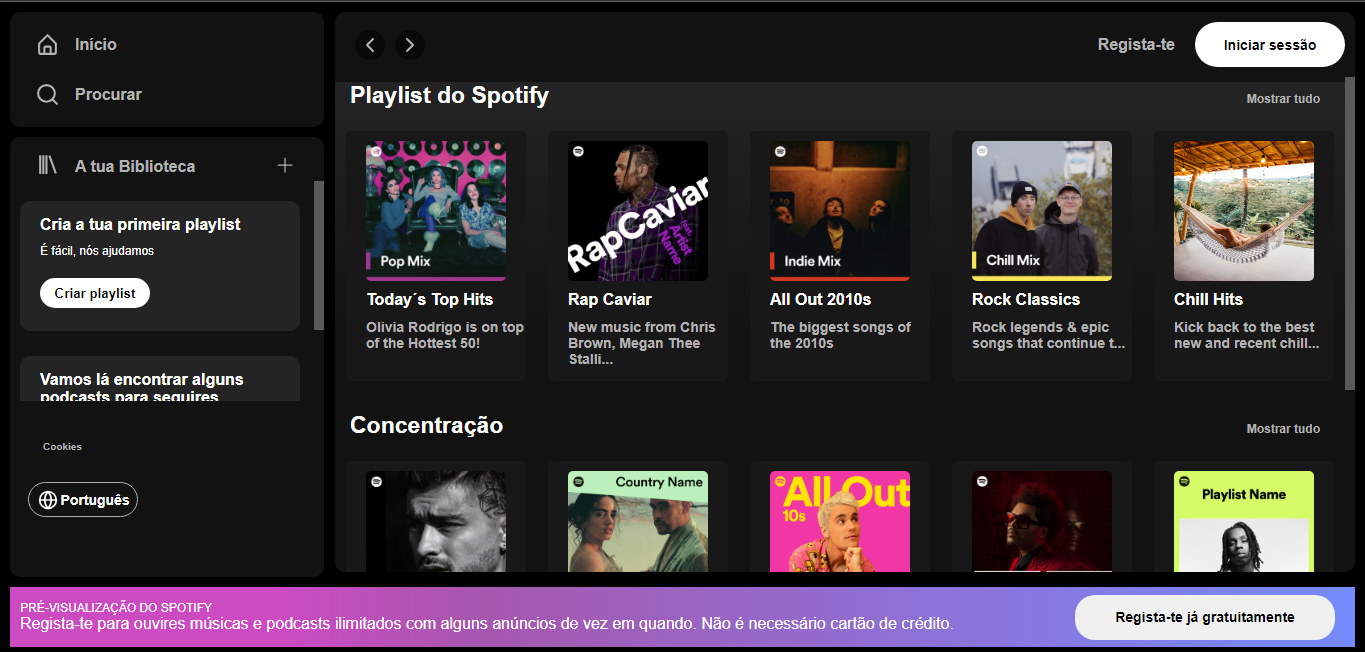
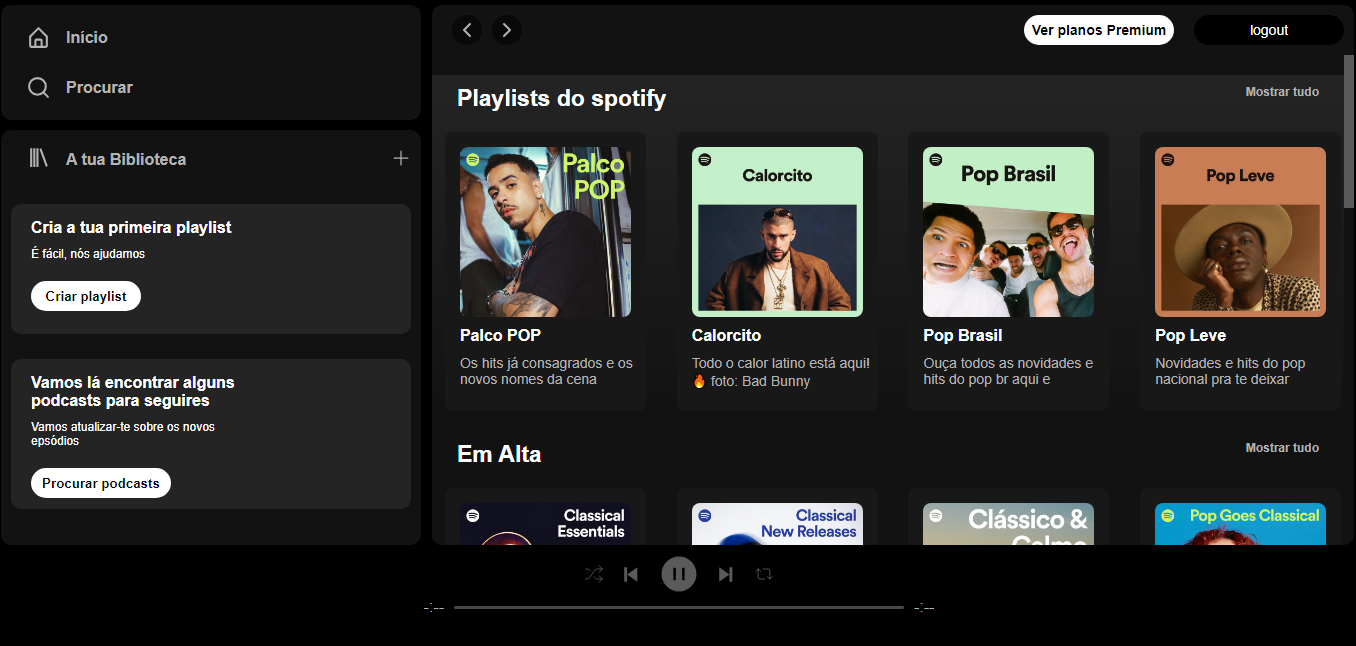
feat: adicionando atualizações e melhorias na organização do projeto

diff --git a/src/views/hello/Hello.jsx b/src/views/hello/Hello.jsx
@@ -2,11 +2,11 @@ import React from 'react'
 
 import "./Hello.css"
 
-import CodeSnippet1 from "../assets/codes/code-snippet-1.png"
-import CodeSnippet2 from "../assets/codes/code-snippet-2.png"
-import CodeSnippet3 from "../assets/codes/code-snippet-3.png"
-import CodeSnippet4 from "../assets/codes/code-snippet-4.png"
-import CodeSnippet5 from "../assets/codes/code-snippet-5.png"
+import CodeSnippet1 from "../../assets/codes/code-snippet-1.png"
+import CodeSnippet2 from "../../assets/codes/code-snippet-2.png"
+import CodeSnippet3 from "../../assets/codes/code-snippet-3.png"
+import CodeSnippet4 from "../../assets/codes/code-snippet-4.png"
+import CodeSnippet5 from "../../assets/codes/code-snippet-5.png"
 
 import { useMediaQuery } from 'react-responsive'
 

diff --git a/src/views/about/About.jsx b/src/views/about/About.jsx
@@ -16,12 +16,12 @@ import { AiOutlineClose, AiFillStar } from "react-icons/ai"
 import { FaComments } from "react-icons/fa"
 import { IoMdArrowDropright } from "react-icons/io"
 
-import CodeSnippet2 from "../assets/codes/code-snippet-2.png"
+import CodeSnippet2 from "../../assets/codes/code-snippet-2.png"
 
-import  Perfil  from "../assets/perfil.jpg"
+import  Perfil  from "../../assets/perfil.jpg"
 import { useMediaQuery } from 'react-responsive'
 
-import SnippetMobile from "../assets/snippet-mobile.png"
+import SnippetMobile from "../../assets/snippet-mobile.png"
 
 const About = () => {
   const [showInfo, setShowInfo] = useState(false)

diff --git a/src/App.jsx b/src/App.jsx
@@ -1,14 +1,11 @@
 import React from 'react'
 
 import "./App.css"
-import Navbar from './components/Navbar'
-import Hello from './views/Hello'
-import Projects from "./views/Projects"
-import Contact from './views/Contact'
-import Footer from './components/Footer'
+
+import { Navbar, Footer } from './components/index'
+import { Hello, About, Projects, Contact } from "./views/index"
 
 import { HashRouter, Routes , Route} from "react-router-dom"
-import About from './views/About'
 
 const App = () => {
   return (

diff --git a/src/views/projects/Projects.jsx b/src/views/projects/Projects.jsx
@@ -4,8 +4,10 @@ import "./Projects.css"
 
 import { BiSolidDownArrow, BiLogoReact } from "react-icons/bi"
 import { AiOutlineClose } from "react-icons/ai" 
-import CardsProjects from '../components/CardsProjects'
-import { projects } from "../constants/data"
+
+import { CardsProjects } from '../../components/index'
+
+import { projects } from "../../constants/data"
 
 import { useMediaQuery  } from 'react-responsive'
 

diff --git a/src/constants/data.js b/src/constants/data.js
@@ -13,8 +13,8 @@ export const projects = [
   {
     "project": "Projeto 2",
     "title": "// Spotify Clone",
-    "text": "O spotify clone é uma  interface ...",
-    "link": "https://spotify-clone-one-beige.vercel.app/",
+    "text": "O spotify clone é uma  interface , onde eu consumo a api do spotify.",
+    "link": "https://spotify-clone-rfha.vercel.app/",
     "image": ProjectImage2,
   },
   {

diff --git a/src/views/contact/Contact.jsx b/src/views/contact/Contact.jsx
@@ -10,7 +10,7 @@ import { FiExternalLink } from "react-icons/fi"
 import { AiOutlineClose, AiOutlineDownload  } from "react-icons/ai"
 import { IoMdArrowDropright } from "react-icons/io"
 
-import Curriculum from "../assets/CV-ROGER-VALENTIM-DA-SILVA.pdf"
+import Curriculum from "../../assets/CV-ROGER-VALENTIM-DA-SILVA.pdf"
 
 import { useMediaQuery } from 'react-responsive'
 

diff --git a/src/views/index.js b/src/views/index.js
@@ -1,0 +1,11 @@
+import Hello from "./hello/Hello"
+import About from "./about/About"
+import Projects from "./projects/Projects"
+import Contact from "./contact/Contact"
+
+export {
+  Hello,
+  About,
+  Projects,
+  Contact,
+}

diff --git a/src/components/index.js b/src/components/index.js
@@ -1,0 +1,9 @@
+import Navbar from "./navbar/Navbar"
+import CardsProjects from "./card/CardsProjects"
+import Footer from "./footer/Footer"
+
+export {
+  Navbar,
+  CardsProjects,
+  Footer,
+}
